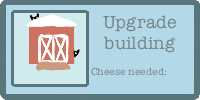
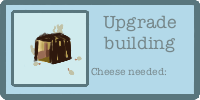
Getting more images in assets

Changed region(s): [[0.12, 0.12, 0.42, 0.75]]

diff --git a/main_scene.js b/main_scene.js
@@ -28,8 +28,14 @@ var MainScene = new Phaser.Class({
         // building upgrades
         this.load.image('cardboardbox', 'assets/cardboard_box.png');
         this.load.image('cathouse', 'assets/cathouse.png');
-        this.load.image('shed', 'assets/shed.png');
+        this.load.image('shed', 'assets/Shed.png');
+        this.load.image('house', 'assets/House.png');
+        this.load.image('shed', 'assets/barn.png');
+        this.load.image('apartment', 'assets/Apartment.png');
+        this.load.image('catopia', 'assets/catopia.png');
         // cat items
+        this.load.image('mouse', 'assets/mouse.png');
+        this.load.image('laserpointer', 'assets/laser_pointer.png');
 
     },
 
@@ -86,14 +92,14 @@ var MainScene = new Phaser.Class({
       cheesepersecCounter.setText(cheese_per_sec);
       // autoclicker counters
       forkCounter.setText(forkAC.owned);
-      //spoonCounter.setText(spoonAC.owned);
-      //sporkCounter.setText(sporkAC.owned);
-      //shovelCounter.setText(shovelAC.owned);
-      //pickaxeCounter.setText(pickaxeAC.owned);
-      //jackhammerCounter.setText(jackhammerAC.owned);
-      //drillCounter.setText(drillAC.owned);
-      //excavatorCounter.setText(excavatorAC.owned);
-      //cheeseCounter.setText(cheesemineAC.owned);
+      spoonCounter.setText(spoonAC.owned);
+      sporkCounter.setText(sporkAC.owned);
+      shovelCounter.setText(shovelAC.owned);
+      pickaxeCounter.setText(pickaxeAC.owned);
+      jackhammerCounter.setText(jackhammerAC.owned);
+      drillCounter.setText(drillAC.owned);
+      excavatorCounter.setText(excavatorAC.owned);
+      cheesemineCounter.setText(cheesemineAC.owned);
     },
 
     // onclick of cheese
@@ -292,77 +298,99 @@ var MainScene = new Phaser.Class({
         const shedB = new Building(1, 100);
         const houseB = new Building(1, 500);
         const barnB = new Building(1, 1000);
-        const studioApartmentComplexB = new Building(1, 5000);
+        const apartmentB = new Building(1, 5000);
         const catopiaB = new Building(1, 15000);
 
         buildings = [];
-        buildings.push(cardboardboxB, catCaveB, shedB, houseB, barnB, studioApartmentComplexB, catopiaB);
+        buildings.push(cardboardboxB, catCaveB, shedB, houseB, barnB, apartmentB, catopiaB);
     },
 
     createCatInstants: function() {
+        // TREAT
         let treatCI = new CatInstant(1, 1);   
         const treatDisplay = this.add.text(1100, 50, 'Treat', { fill: '#fff', fontSize: 40 }).setOrigin(0.5);
         treatDisplay.setInteractive();
         treatDisplay.on('pointerdown', () => this.onClickBuyCatInstant(treatCI) );
 
+        /*
+        // TREAT PILE
         let treatpileCI = new CatInstant(1, 1);
         const treatpileDisplay = this.add.text(1100, 100, 'Treat Pile', { fill: '#fff', fontSize: 40 }).setOrigin(0.5);
         treatpileDisplay.setInteractive();
         treatpileDisplay.on('pointerdown', () => this.onClickBuyCatInstant(treatpileCI) );        
 
+        // CHEESE WHEEL
         let cheesewheelCI = new CatInstant(1, 1);
         const cheesewheelDisplay = this.add.text(1100, 150, 'Cheese Wheel', { fill: '#fff', fontSize: 40 }).setOrigin(0.5);
         cheesewheelDisplay.setInteractive();
         cheesewheelDisplay.on('pointerdown', () => this.onClickBuyCatInstant(cheesewheelCI) );
 
+        // CATNIP
         let catnipCI = new CatInstant(1, 1);
         const catnipDisplay = this.add.text(1100, 200, 'Catnip', { fill: '#fff', fontSize: 40 }).setOrigin(0.5);
         catnipDisplay.setInteractive();
-        catnipDisplay.on('pointerdown', () => this.onClickBuyCatInstant(catnipCI) );
+        catnipDisplay.on('pointerdown', () => this.onClickBuyCatInstant(catnipCI) );*/
 
     }, 
 
     createCatProgressives: function() {
+        // BALL
         const ballCP = new CatProgressive(1, 0.033, 0, true);
+        //ballCounter = this.add.text(35, 60, ballCP.owned, { fill: '#fff', fontSize: 35, fontFamily: "American Typewriter" }).setOrigin(0.5);
+        //ballCost = this.add.text(290, 45, ballCP.cost, { fill: '#fff', fontSize: 30, fontFamily: "American Typewriter" });
+        //const ball_cheese = this.add.image(317, 60, 'moon').setOrigin(0.5);
+        //ball_cheese.scale = 0.25; 
         const ballDisplay = this.add.text(1100, 250, 'Ball', { fill: '#fff', fontSize: 40 }).setOrigin(0.5);
         ballDisplay.setInteractive();
         ballDisplay.on('pointerdown', () => this.onClickBuyCatProgressive(ballCP) );
 
+        // MOUSE
         const mouseCP = new CatProgressive(1, 0.083, 0, true);
-        const mouseDisplay = this.add.text(1100, 300, 'Mouse', { fill: '#fff', fontSize: 40 }).setOrigin(0.5);
+        mouseCounter = this.add.text(1245, 135, mouseCP.owned, { fill: '#fff', fontSize: 35, fontFamily: "American Typewriter" }).setOrigin(0.5);
+        mouseCost = this.add.text(990, 120, mouseCP.cost, { fill: '#fff', fontSize: 30, fontFamily: "American Typewriter" });
+        const mouse_cheese = this.add.image(320, 135, 'moon').setOrigin(0.5);
+        mouse_cheese.scale = 0.25; 
+        const spoonDisplay = this.add.image(1100, 300, 'mouse').setOrigin(0.5);
         mouseDisplay.setInteractive();
         mouseDisplay.on('pointerdown', () => this.onClickBuyCatProgressive(mouseCP) );
 
-        const ponytailholderCP = new CatProgressive(1, 0.17, 0, true);
-        const ponytailholderDisplay = this.add.text(1100, 350, 'Ponytail Holder', { fill: '#fff', fontSize: 40 }).setOrigin(0.5);
-        ponytailholderDisplay.setInteractive();
-        ponytailholderDisplay.on('pointerdown', () => this.onClickBuyCatProgressive(ponytailholderCP) );
+        // HAIR TIE
+        const hairtieCP = new CatProgressive(1, 0.17, 0, true);
+        const hairtieDisplay = this.add.text(1100, 350, 'Hair Tie', { fill: '#fff', fontSize: 40 }).setOrigin(0.5);
+        hairtieDisplay.setInteractive();
+        hairtieDisplay.on('pointerdown', () => this.onClickBuyCatProgressive(hairtieCP) );
 
+        // TWIST TIE
         const twisttieCP = new CatProgressive(1, 1, 0.33, true);
         const twisttieDisplay = this.add.text(1100, 400, 'Twist Tie', { fill: '#fff', fontSize: 40 }).setOrigin(0.5);
         twisttieDisplay.setInteractive();
         twisttieDisplay.on('pointerdown', () => this.onClickBuyCatProgressive(twisttieCP) );
 
+        // LASER POINTER
         const laserpointerCP = new CatProgressive(1, 0.5, 0, true);
         const laserpointerDisplay = this.add.text(1100, 450, 'Laser Pointer', { fill: '#fff', fontSize: 40 }).setOrigin(0.5);
         laserpointerDisplay.setInteractive();
         laserpointerDisplay.on('pointerdown', () => this.onClickBuyCatProgressive(laserpointerCP) );
 
+        // CUSHION
         const cushionCP = new CatProgressive(1, 1, 0.83, true);
         const cushionDisplay = this.add.text(1100, 500, 'Cushion', { fill: '#fff', fontSize: 40 }).setOrigin(0.5);
         cushionDisplay.setInteractive();
         cushionDisplay.on('pointerdown', () => this.onClickBuyCatProgressive(cushionCP) );
 
+        // KEYBOARD
         const keyboardCP = new CatProgressive(1, 1, 1.67, true);
         const keyboardDisplay = this.add.text(1100, 550, 'Keyboard', { fill: '#fff', fontSize: 40 }).setOrigin(0.5);
         keyboardDisplay.setInteractive();
         keyboardDisplay.on('pointerdown', () => this.onClickBuyCatProgressive(keyboardCP) );
 
+        // SCRATCHER
         const scratcherCP = new CatProgressive(1, 1, 2.5, true);
         const scratcherDisplay = this.add.text(1100, 600, 'Scratcher', { fill: '#fff', fontSize: 40 }).setOrigin(0.5);
         scratcherDisplay.setInteractive();
         scratcherDisplay.on('pointerdown', () => this.onClickBuyCatProgressive(scratcherCP) );
 
+        // TREE
         const treeCP = new CatProgressive(1, 1, 3.33, true);
         const treeDisplay = this.add.text(1100, 650, 'Tree', { fill: '#fff', fontSize: 40 }).setOrigin(0.5);
         treeDisplay.setInteractive();
